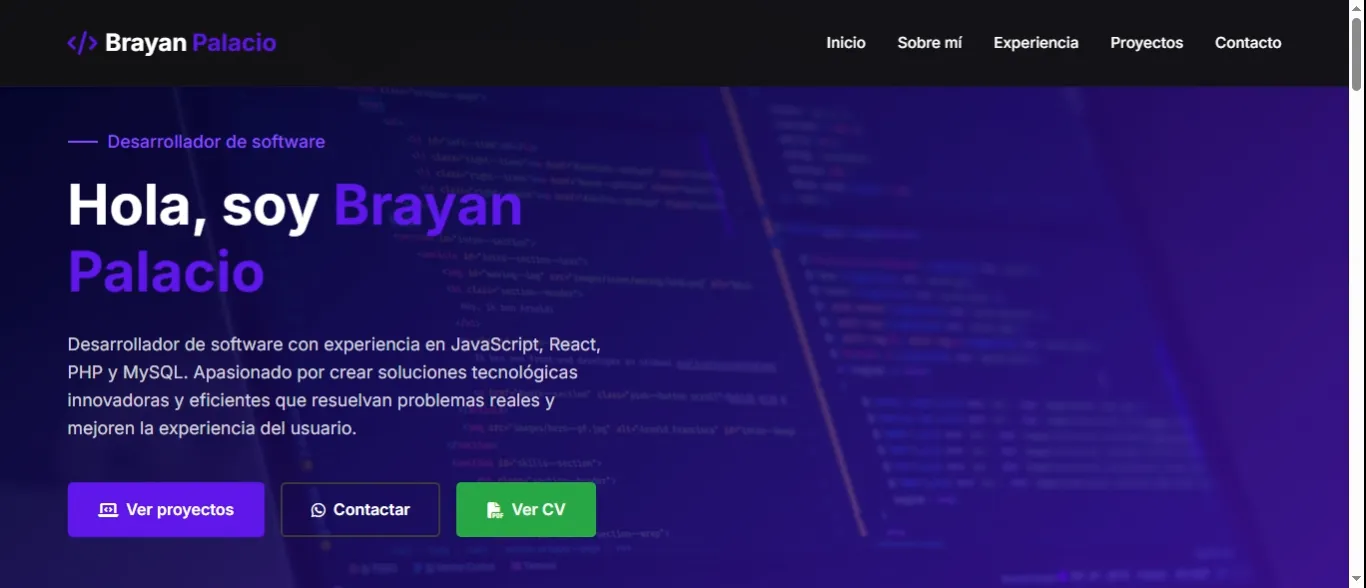
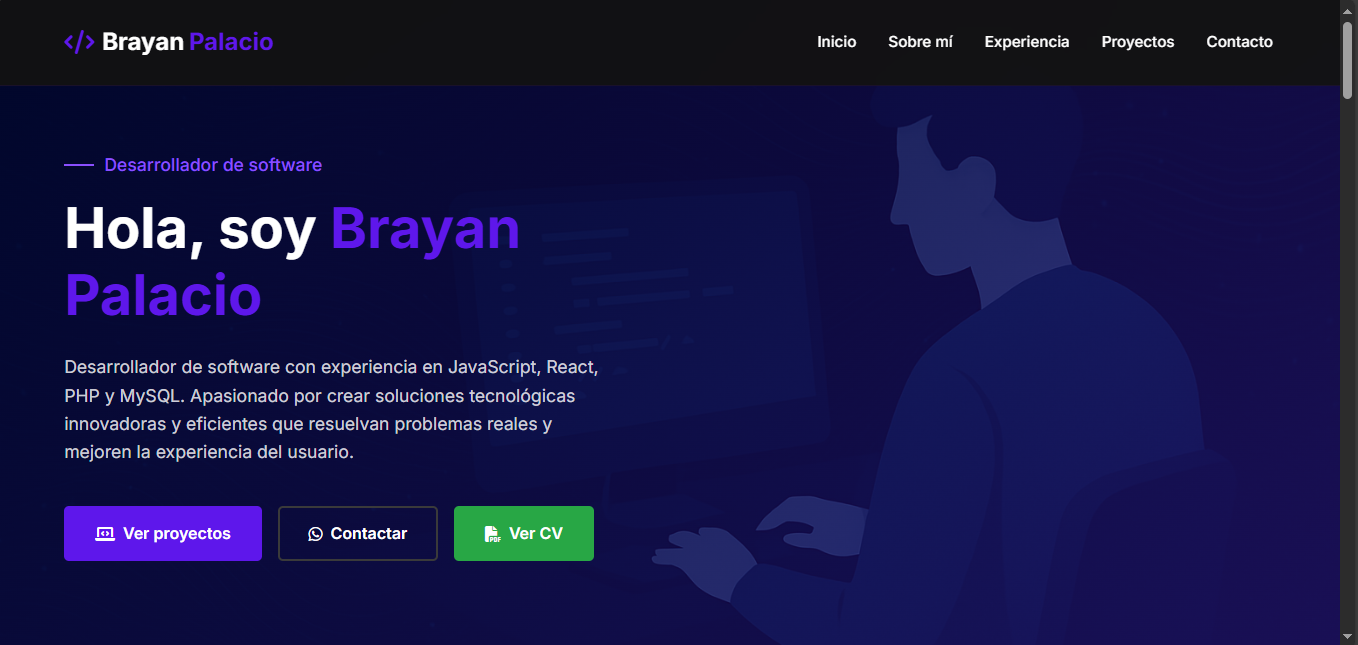
Agregado proyecto Clima App y mejoras en metadatos Open Graph

diff --git a/index.html b/index.html
@@ -1,17 +1,39 @@
 <!DOCTYPE html>
 <html lang="es">
 <head>
+    <!-- Metadatos básicos -->
     <meta charset="UTF-8">
     <meta name="viewport" content="width=device-width, initial-scale=1.0">
+    <title>Brayan Palacio | Desarrollador de software</title>
     <meta name="description" content="Desarrollador de software especializado en JavaScript, React, MySQL y PHP. Soluciones tecnológicas innovadoras y eficientes para empresas.">
     <meta name="keywords" content="desarrollador web, JavaScript, React, PHP, MySQL, Full Stack, Medellín">
     <meta name="author" content="Brayan Palacio">
-    <title>Brayan Palacio | Desarrollador de software</title>
-    <link rel="icon" href="Img/favicon.png" type="image/x-icon">
+
+    <!-- Favicon -->
+    <link rel="icon" href="img/favicon.png" type="image/x-icon">
+
+    <!-- Fuentes y estilos -->
     <link rel="stylesheet" href="https://cdnjs.cloudflare.com/ajax/libs/font-awesome/6.4.2/css/all.min.css">
-    <link href="https://fonts.googleapis.com/css2?family=Inter:wght@300;400;500;600;700&display=swap" rel="stylesheet">
     <link rel="preconnect" href="https://fonts.googleapis.com">
     <link rel="preconnect" href="https://fonts.gstatic.com" crossorigin>
+    <link href="https://fonts.googleapis.com/css2?family=Inter:wght@300;400;500;600;700&display=swap" rel="stylesheet">
+
+    <!-- Open Graph / Facebook / LinkedIn / Discord -->
+    <meta property="og:url" content="https://brayanpalacio.netlify.app/">
+    <meta property="og:type" content="website">
+    <meta property="og:title" content="Brayan Palacio | Desarrollador de software">
+    <meta property="og:description" content="Desarrollador de software especializado en JavaScript, React, MySQL y PHP. Soluciones tecnológicas innovadoras y eficientes para empresas.">
+    <meta property="og:image" content="https://brayanpalacio.netlify.app/img/portafolio.webp">
+    <meta property="og:image:width" content="1200" />
+    <meta property="og:image:height" content="630" />
+
+    <!-- Twitter -->
+    <meta name="twitter:card" content="summary_large_image">
+    <meta property="twitter:domain" content="brayanpalacio.netlify.app">
+    <meta property="twitter:url" content="https://brayanpalacio.netlify.app/">
+    <meta name="twitter:title" content="Brayan Palacio | Desarrollador de software">
+    <meta name="twitter:description" content="Desarrollador de software especializado en JavaScript, React, MySQL y PHP. Soluciones tecnológicas innovadoras y eficientes para empresas.">
+    <meta name="twitter:image" content="https://brayanpalacio.netlify.app/img/portafolio.webp">
     <style>
         :root {
             --primary: #5e17eb;
@@ -138,8 +160,8 @@
             display: flex;
             align-items: center;
             padding: 8rem 5% 4rem;
-            background: linear-gradient(135deg, rgba(0, 4, 40, 0.9), rgba(77, 19, 192, 0.7)), 
-                        url('https://images.unsplash.com/photo-1555066931-4365d14bab8c?ixlib=rb-1.2.1&auto=format&fit=crop&w=1350&q=80') no-repeat center center/cover;
+            background: linear-gradient(135deg, rgba(0, 4, 40, 0.9), rgba(36, 8, 92, 0.7)), 
+                        url('Img/background-developer-brayan.png') no-repeat center center/cover;
             position: relative;
             overflow: hidden;
         }
@@ -1264,7 +1286,7 @@
             </div>
             <div class="about-container">
                 <div class="about-image">
-                    <img src="Img/IMG_20241117_203139.jpg" alt="Brayan Palacio">
+                    <img src="Img/brayan-palacio.jpg" alt="Brayan Palacio">
                 </div>
                 <div class="about-content">
                     <div class="about-text">
@@ -1396,7 +1418,7 @@
     <section id="projects">
         <div class="section-container">
             <div class="section-title">
-                <h2>Proyectos</h2>
+                <h2>Proyectos Destacados</h2>
             </div>
             <div class="projects-filter">
                 <button class="filter-btn active" data-filter="all">Todos</button>
@@ -1481,6 +1503,31 @@
                             </a>
                             <a href="#" class="project-link">
                                 <i class="fas fa-external-link-alt"></i> Actualmente aquí
+                            </a>
+                        </div>
+                    </div>
+                </div>
+                <div class="project-card" data-category="web">
+                    <div class="project-image">
+                        <img src="Img/climaapp.png" alt="Clima App">
+                    </div>
+                    <div class="project-content">
+                        <h3 class="project-title">Clima App</h3>
+                        <p class="project-description">
+                            Aplicación interactiva desarrollada con React que muestra el clima actual y el pronóstico de los próximos 5 días. Integra la API de OpenWeather, animaciones con Framer Motion, geolocalización y diseño responsivo con TailwindCSS.
+                        </p>
+                        <div class="project-tech">
+                            <span class="tech-tag">React</span>
+                            <span class="tech-tag">TailwindCSS</span>
+                            <span class="tech-tag">OpenWeather API</span>
+                            <span class="tech-tag">Framer Motion</span>
+                        </div>
+                        <div class="project-links">
+                            <a href="https://github.com/Brayan-palacio/clima-app" class="project-link" target="_blank">
+                                <i class="fab fa-github"></i> Código
+                            </a>
+                            <a href="https://clima-app-roan.vercel.app/" class="project-link" target="_blank">
+                                <i class="fas fa-external-link-alt"></i> Demo
                             </a>
                         </div>
                     </div>
@@ -1601,7 +1648,7 @@
                     <i class="fab fa-instagram"></i>
                 </a>
             </div>
-            <p class="footer-copy">&copy; 2024 Brayan Palacio. Todos los derechos reservados.</p>
+           
         </div>
     </footer>
     <div id="credentialsModal" class="modal">
